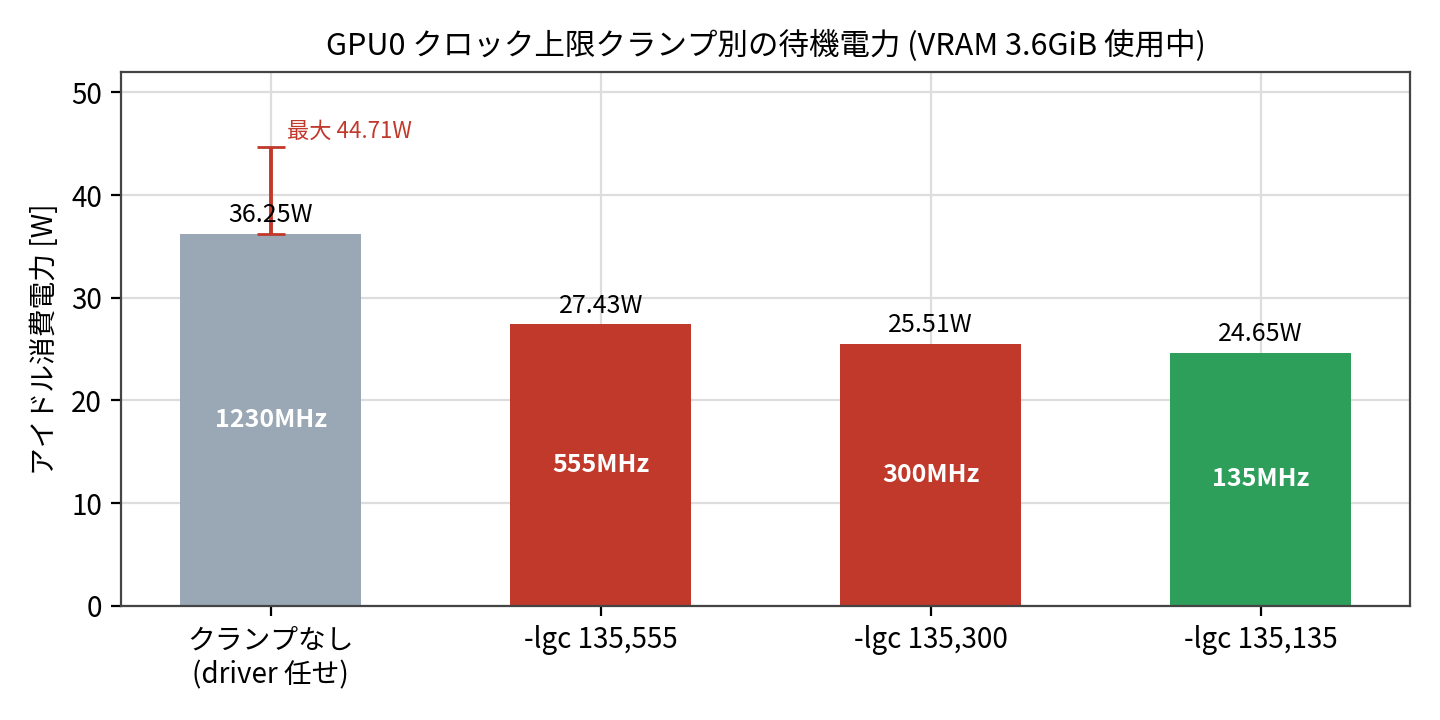
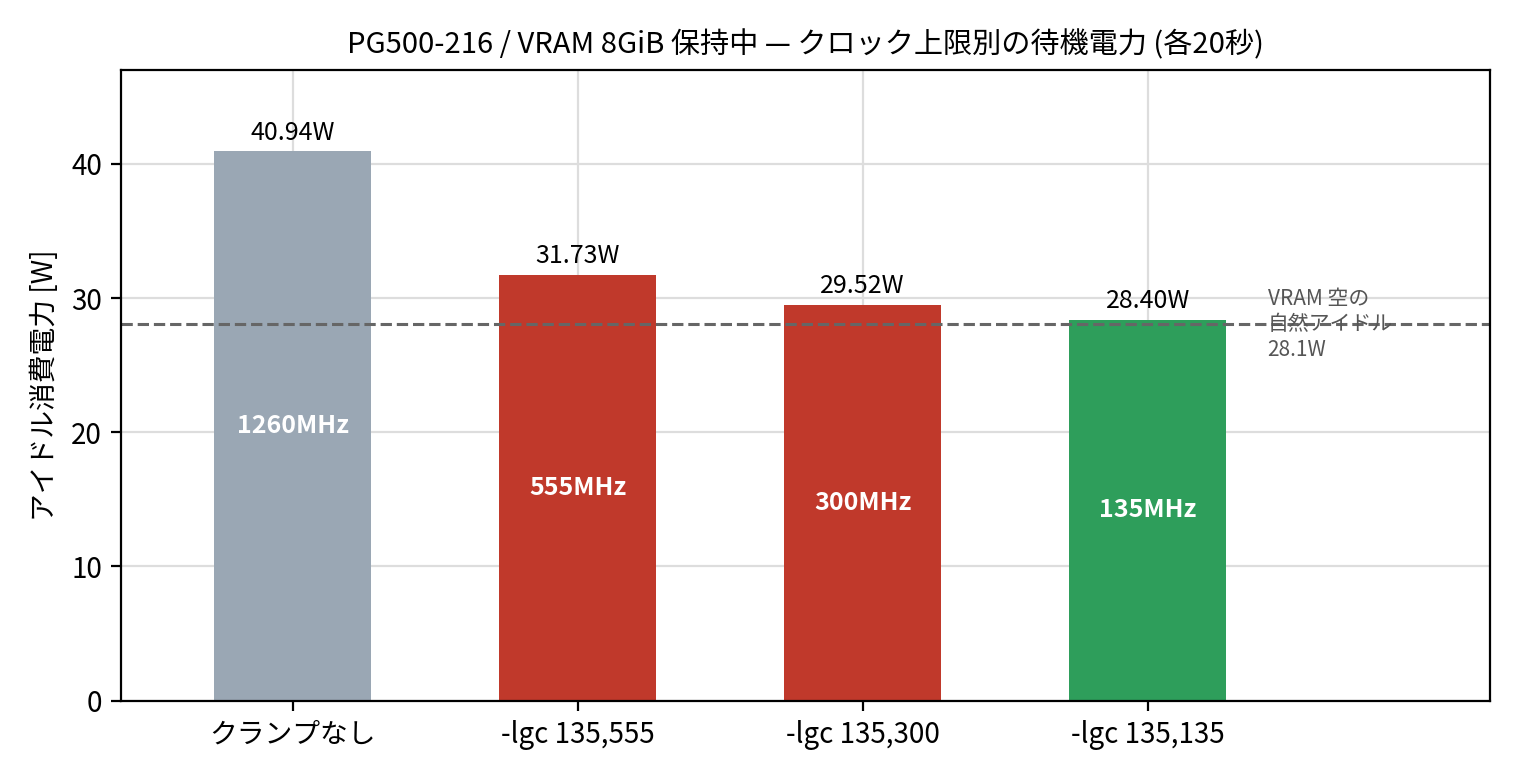
通常時との差分を明示: 実測タイムラインと挙動比較表を追加

diff --git a/README.md b/README.md
@@ -2,14 +2,21 @@
 
 # nvidia-idle-clock
 
-VRAM に何か載ると高クロックに張り付き、アイドルでも 36〜45W 消費する NVIDIA GPU 向け。
-アイドル時だけ `nvidia-smi -lgc` でクロック上限を絞り、負荷を検出すると即解除する systemd デーモン。
+VRAM に何か載ると高クロックに張り付いたままになる NVIDIA GPU 向け。
+**アイドル時だけ** `nvidia-smi -lgc` でクロック上限を絞り、負荷を検出すると即解除する systemd デーモン。
 **GPU ごとに独立したインスタンス**として動き、1枚ずつ別々の設定を割り当てられる。
 
-| Tesla V100-PCIE-32GB (VRAM 3.6GiB 使用) | 適用前 | 適用後 |
+| 状態 | クランプなし | クランプ 135MHz |
 |---|---|---|
-| アイドル消費電力 | 36.3W (最大 44.7W) | **24.9W** |
-| 計算能力・メモリ帯域 (解除後) | — | **誤差 0.01% で完全復帰** |
+| V100-PCIE-32GB / VRAM 3.6GiB 保持 | 36.3W (最大 44.7W) | **24.9W** |
+| PG500-216 / VRAM 8GiB 保持 | 40.9W | **28.4W** |
+| VRAM 空 | 24.6W / 28.1W | 変化なし |
+
+> **効くのは VRAM を保持している間だけ。**
+> VRAM が空なら driver が自分で 135MHz まで落とすのでクランプは不要 (実測でクランプ有無の差は 0.0W)。
+> 逆に **VRAM を保持している間は driver が降りない** — PG500-216 + 8GiB で
+> 1260MHz / 40〜41W のまま **180秒** 経過するのを確認済み。ここが唯一の対象。
+> クランプ解除後の計算能力・メモリ帯域は **誤差 0.01%** で完全復帰する。
 
 > **V100 (Volta) では PState 強制が使えない。**
 > NVAPI の `NvAPI_GPU_SetForcePstate()` は `fallback=0` で全 PState (8〜15) が `NVAPI_ERROR` を返す。
@@ -17,6 +24,45 @@ VRAM に何か載ると高クロックに張り付き、アイドルでも 36〜
 > [nvidia-pstated](https://github.com/sasha0552/nvidia-pstated) は動作しない
 > (`fallback=2` だと 555MHz に固定され、driver の自然アイドル 135MHz より **+3W 悪化**する)。
 > そのため PState ではなくクロック範囲ロックで代用している。
+
+## 通常との違い
+
+![](img/timeline.png)
+
+| | 通常 (driver 任せ) | 導入後 |
+|---|---|---|
+| VRAM 保持中・無負荷のクロック | 1260〜1380MHz のまま降りない | **135MHz** (30秒無負荷で) |
+| そのときの電力 | 39〜45W | **24.9〜28.4W** |
+| 負荷が来たとき | そのまま実行 | 200ms 以内に検出して解除 (その間だけ 135MHz) |
+| 負荷が 30 秒途切れたとき | 高いクロックのまま | 135MHz に戻る |
+| VRAM が空のとき | driver が自分で 135MHz まで落とす | **何もしない** (同じ) |
+| PState | P0 のまま | P0 のまま (変化なし) |
+
+### 観測される違い
+
+クランプ中は `clocks.current.graphics` が 135MHz になるのが唯一の外形的な差。
+`PState` は P0 のまま、`clocks.max.graphics` も 1380MHz のままで、`-lgc` はレポートに現れない。
+
+```
+$ nvidia-smi --query-gpu=index,pstate,clocks.gr,clocks.max.gr,power.draw --format=csv
+index, pstate, clocks.current.graphics [MHz], clocks.max.graphics [MHz], power.draw [W]
+0, P0, 135 MHz, 1380 MHz, 24.95 W
+1, P0, 135 MHz, 1380 MHz, 27.87 W
+```
+
+### 変わらないもの
+
+- PState (V100 は常に P0)
+- プロセスの VRAM、CUDA コンテキスト、計算結果
+- persistence mode、電力上限、PCIe リンク、ファン制御
+- クロック上限 (解除後は 1380MHz まで戻る)
+- サービス停止時は `-rgc` で元に戻る
+
+### 代償
+
+- 無負荷から負荷が来るまでの**最大 200ms** (`SAMPLE_MS`) は 135MHz で走る
+  → 20秒ベンチで −0.49% (DtoD)、memset と SGEMM は ±0%
+- 負荷が 30 秒以上途切れない GPU ではクランプされない (常時推論では効かない)
 
 ## インストール
 
@@ -30,7 +76,7 @@ sudo ./install.sh 0 1      # GPU を指定する場合
 手動:
 
 ```bash
-sudo install -m 0755 nvidia-idle-clock        /usr/local/sbin/nvidia-idle-clock
+sudo install -m 0755 nvidia-idle-clock          /usr/local/sbin/nvidia-idle-clock
 sudo install -m 0644 nvidia-idle-clock@.service /etc/systemd/system/nvidia-idle-clock@.service
 sudo systemctl daemon-reload
 sudo systemctl enable --now nvidia-idle-clock@0.service   # GPU 0
@@ -82,9 +128,22 @@ for g in $(nvidia-smi --query-gpu=index --format=csv,noheader); do sudo nvidia-s
 
 ## 実測データ
 
+### アイドル消費電力 — VRAM 状態で効き目が変わる
+
 ![](img/idle-power.png)
 
+### クロック上限別 (PG500-216 / VRAM 8GiB 保持中, 各20秒)
+
 ![](img/clamp-ladder.png)
+
+| クランプ | 実クロック | 電力 |
+|---|---|---|
+| なし | 1260 MHz | 40.94 W |
+| `-lgc 135,555` | 555 MHz | 31.73 W |
+| `-lgc 135,300` | 300 MHz | 29.52 W |
+| `-lgc 135,135` | 135 MHz | 28.40 W |
+
+### クランプの性能影響 (VRAM 8GiB 保持)
 
 ![](img/perf.png)
 
@@ -98,18 +157,17 @@ for g in $(nvidia-smi --query-gpu=index --format=csv,noheader); do sudo nvidia-s
 
 計測環境: Tesla V100-PCIE-32GB + Tesla PG500-216 (GV100 32GB x2) / driver 580.178.04
 
-### 参考: 実機の出力
+### 参考: 実機のログ
 
 ```
-$ nvidia-smi --query-gpu=index,name,clocks.gr,power.draw --format=csv
-index, name, clocks.current.graphics [MHz], power.draw [W]
-0, Tesla V100-PCIE-32GB, 135 MHz, 24.94 W
-1, Tesla PG500-216,       135 MHz, 27.67 W
-
 $ journalctl -u nvidia-idle-clock@0 -o cat
-01:41:02 開始 gpu=0 cap=135-135MHz idle=30s sample=200ms skip_if_low=1
-01:41:37 gpu0 アイドル 30s 継続 (1380MHz): 135-135MHz にクランプ
-01:44:10 gpu0 活動検出 (util=58%): ロック解除
+2026-10-19 01:59:06 gpu0 アイドル 30s 継続 (1230MHz): 135-135MHz にクランプ
+2026-10-19 02:53:09 gpu0 活動検出 (util=69%): ロック解除
+2026-10-19 02:53:57 gpu0 アイドル 30s 継続 (1380MHz): 135-135MHz にクランプ
+
+$ journalctl -u nvidia-idle-clock@1 -o cat
+2026-10-19 15:25:15 開始 gpu=1 cap=135-135MHz idle=30s sample=200ms skip_if_low=1
+# VRAM が空の GPU1 にはクランプを当てない (driver が自分で 135MHz まで落とすため)
 ```
 
 ## 設定
@@ -134,13 +192,15 @@ $ journalctl -u nvidia-idle-clock@0 -o cat
 - 対象 GPU の利用率を `SAMPLE_MS` 間隔で監視 (インスタンスごとに独立)
 - `IDLE_SECONDS` 無負荷 → `nvidia-smi -i N -lgc MIN_CLK,IDLE_CAP`
 - 利用率 > `UTIL_THRESHOLD` → 即 `-rgc`
-- `SKIP_IF_LOW=1` のとき既に低クロックなら何もしない (VRAM が空の GPU に当てると逆に +0.7〜2W)
+- `SKIP_IF_LOW=1` のとき既に低クロックなら何もしない (VRAM が空なら不要なため)
 - 利用率ストリームが切れたら 2 秒後に再接続
 - 停止時は必ず `-rgc`
 
 ## 注意
 
+- 効くのは VRAM 保持中だけ。VRAM が空の GPU では何もしない (driver が 135MHz まで落とす)。
 - クランプ中は計算 0.089倍 / 帯域 0.12〜0.19倍まで落ちる。負荷検出は最速 `SAMPLE_MS`。
+- VRAM を保持したまま常時推論している GPU ではアイドル判定が来ないため効かない。
 - P40/P100 のように `-lgc` より PState 強制が効く世代では
   [nvidia-pstate](https://github.com/sasha0552/nvidia-pstate) の方が有効 (45W → 10W)。
 - `-rgc` はロックを外すだけで、アイドル中はクロックを上げない (次の利用時に上がる)。

diff --git a/README.en.md b/README.en.md
@@ -2,15 +2,23 @@ English | [日本語](README.md)
 
 # nvidia-idle-clock
 
-A systemd daemon for NVIDIA GPUs that park at a high clock and burn 36–45W while idle
-as soon as anything sits in VRAM. It clamps the clock ceiling with `nvidia-smi -lgc`
-while idle, and releases it the moment load appears.
-It runs **one independent instance per GPU**, so each card can have its own settings.
+For NVIDIA GPUs that park at a high clock and never come down while something sits in VRAM.
+A systemd daemon that clamps the clock ceiling with `nvidia-smi -lgc` **only while idle**,
+and releases it the moment load appears. It runs **one independent instance per GPU**,
+so each card can have its own settings.
 
-| Tesla V100-PCIE-32GB (3.6GiB in VRAM) | Before | After |
+| State | No clamp | Clamped @135MHz |
 |---|---|---|
-| Idle power | 36.3W (peak 44.7W) | **24.9W** |
-| Compute / memory bandwidth (after release) | — | **fully restored, 0.01% error** |
+| V100-PCIE-32GB / 3.6GiB in VRAM | 36.3W (peak 44.7W) | **24.9W** |
+| PG500-216 / 8GiB in VRAM | 40.9W | **28.4W** |
+| VRAM empty | 24.6W / 28.1W | no change |
+
+> **It only helps while VRAM is held.**
+> With VRAM empty the driver comes down to 135MHz by itself, so the clamp makes no difference
+> (measured delta: 0.0W). Conversely, **while VRAM is held the driver never comes down** —
+> PG500-216 + 8GiB stayed at 1260MHz / 40–41W for a full **180 seconds**.
+> That is the only case this tool targets.
+> Compute and memory bandwidth are **fully restored (0.01% error)** after the clamp is released.
 
 > **P-State forcing does not work on V100 (Volta).**
 > NVAPI `NvAPI_GPU_SetForcePstate()` returns `NVAPI_ERROR` for every P-State (8–15) with `fallback=0`.
@@ -18,6 +26,45 @@ It runs **one independent instance per GPU**, so each card can have its own sett
 > [nvidia-pstated](https://github.com/sasha0552/nvidia-pstated), which target P40/P100, do not work here
 > (with `fallback=2` the GPU just pins to 555MHz, **+3W worse** than the driver's natural 135MHz idle).
 > Hence a clock-range lock instead of P-State forcing.
+
+## How it differs from stock
+
+![](img/timeline.png)
+
+| | Stock (driver-managed) | With this daemon |
+|---|---|---|
+| Clock while VRAM held and idle | stays at 1260–1380MHz, never drops | **135MHz** (after 30s idle) |
+| Power in that state | 39–45W | **24.9–28.4W** |
+| When load arrives | runs as-is | detected within 200ms and released (only that window runs at 135MHz) |
+| 30s after load stops | still at the high clock | back to 135MHz |
+| When VRAM is empty | driver drops to 135MHz by itself | **does nothing** (same) |
+| P-State | stays P0 | stays P0 (unchanged) |
+
+### What you can observe
+
+The only externally visible difference is `clocks.current.graphics` reading 135MHz.
+`PState` stays P0, `clocks.max.graphics` stays 1380MHz, and the `-lgc` lock never shows up in the report.
+
+```
+$ nvidia-smi --query-gpu=index,pstate,clocks.gr,clocks.max.gr,power.draw --format=csv
+index, pstate, clocks.current.graphics [MHz], clocks.max.graphics [MHz], power.draw [W]
+0, P0, 135 MHz, 1380 MHz, 24.95 W
+1, P0, 135 MHz, 1380 MHz, 27.87 W
+```
+
+### What does not change
+
+- P-State (V100 is always P0)
+- Process VRAM, CUDA contexts, numerical results
+- persistence mode, power limits, PCIe link, fan control
+- Maximum clock (returns to 1380MHz once released)
+- Stopping the service runs `-rgc`, restoring the original state
+
+### Cost
+
+- The first **≤200ms** (`SAMPLE_MS`) after load arrives runs at 135MHz
+  → −0.49% on a 20s DtoD benchmark; memset and SGEMM are ±0%
+- A GPU that never goes 30s without load is never clamped (no benefit for continuous inference)
 
 ## Install
 
@@ -83,9 +130,22 @@ for g in $(nvidia-smi --query-gpu=index --format=csv,noheader); do sudo nvidia-s
 
 ## Measurements
 
+### Idle power — effectiveness depends on VRAM state
+
 ![](img/idle-power.png)
 
+### Clock ceiling (PG500-216 / 8GiB in VRAM, 20s each)
+
 ![](img/clamp-ladder.png)
+
+| Clamp | Actual clock | Power |
+|---|---|---|
+| none | 1260 MHz | 40.94 W |
+| `-lgc 135,555` | 555 MHz | 31.73 W |
+| `-lgc 135,300` | 300 MHz | 29.52 W |
+| `-lgc 135,135` | 135 MHz | 28.40 W |
+
+### Performance impact (8GiB in VRAM)
 
 ![](img/perf.png)
 
@@ -99,18 +159,17 @@ for g in $(nvidia-smi --query-gpu=index --format=csv,noheader); do sudo nvidia-s
 
 Test rig: Tesla V100-PCIE-32GB + Tesla PG500-216 (GV100 32GB x2) / driver 580.178.04
 
-### Sample output
+### Sample log
 
 ```
-$ nvidia-smi --query-gpu=index,name,clocks.gr,power.draw --format=csv
-index, name, clocks.current.graphics [MHz], power.draw [W]
-0, Tesla V100-PCIE-32GB, 135 MHz, 24.94 W
-1, Tesla PG500-216,       135 MHz, 27.67 W
-
 $ journalctl -u nvidia-idle-clock@0 -o cat
-01:41:02 開始 gpu=0 cap=135-135MHz idle=30s sample=200ms skip_if_low=1
-01:41:37 gpu0 アイドル 30s 継続 (1380MHz): 135-135MHz にクランプ
-01:44:10 gpu0 活動検出 (util=58%): ロック解除
+2026-10-19 01:59:06 gpu0 アイドル 30s 継続 (1230MHz): 135-135MHz にクランプ
+2026-10-19 02:53:09 gpu0 活動検出 (util=69%): ロック解除
+2026-10-19 02:53:57 gpu0 アイドル 30s 継続 (1380MHz): 135-135MHz にクランプ
+
+$ journalctl -u nvidia-idle-clock@1 -o cat
+2026-10-19 15:25:15 開始 gpu=1 cap=135-135MHz idle=30s sample=200ms skip_if_low=1
+# GPU1 has empty VRAM, so it is never clamped (the driver comes down to 135MHz on its own)
 ```
 
 ## Configuration
@@ -135,13 +194,15 @@ A non-existent index in `GPU` is dropped with a warning; if none remain, startup
 - Polls target GPU utilization every `SAMPLE_MS` (each instance independent)
 - `IDLE_SECONDS` idle → `nvidia-smi -i N -lgc MIN_CLK,IDLE_CAP`
 - Utilization > `UTIL_THRESHOLD` → immediate `-rgc`
-- With `SKIP_IF_LOW=1`, already-low GPUs are left alone (clamping an empty GPU costs +0.7–2W)
+- With `SKIP_IF_LOW=1`, already-low GPUs are left alone (nothing to do when VRAM is empty)
 - Reconnects 2s after the utilization stream drops
 - Always runs `-rgc` on exit
 
 ## Notes
 
+- Only effective while VRAM is held. On a GPU with empty VRAM it does nothing.
 - While clamped, compute drops to 0.089x and bandwidth to 0.12–0.19x. Detection is as fast as `SAMPLE_MS`.
+- A GPU that is continuously inferring never reaches the idle state, so it is never clamped.
 - On generations where P-State forcing works (P40/P100), prefer
   [nvidia-pstate](https://github.com/sasha0552/nvidia-pstate) (45W → 10W).
 - `-rgc` only removes the lock; it does not raise the clock while idle (it rises on next use).
